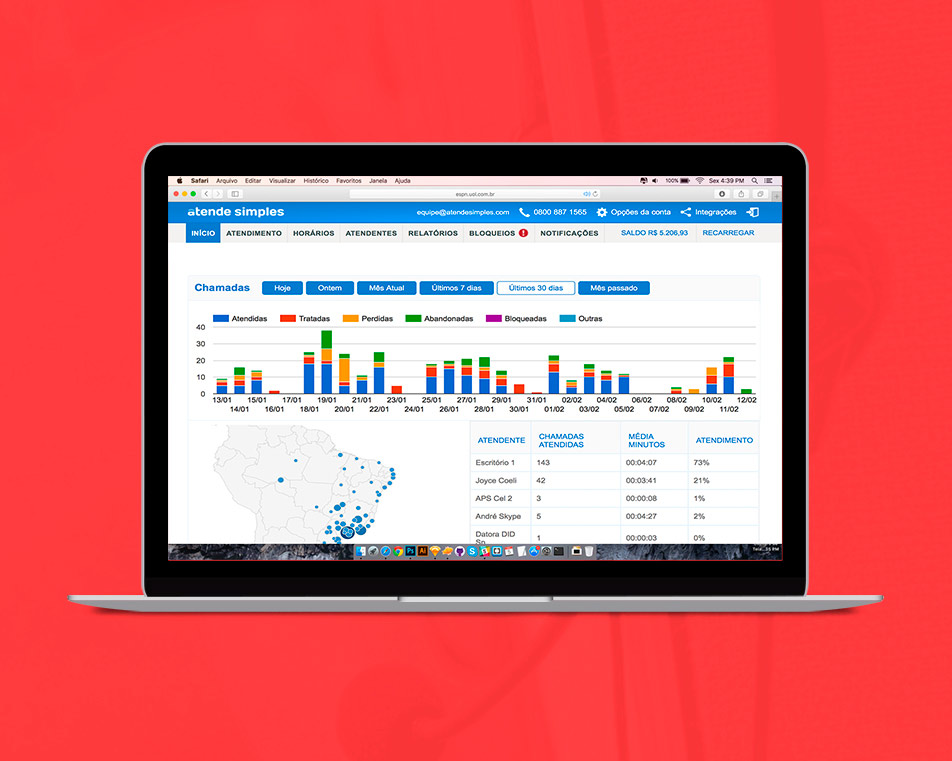
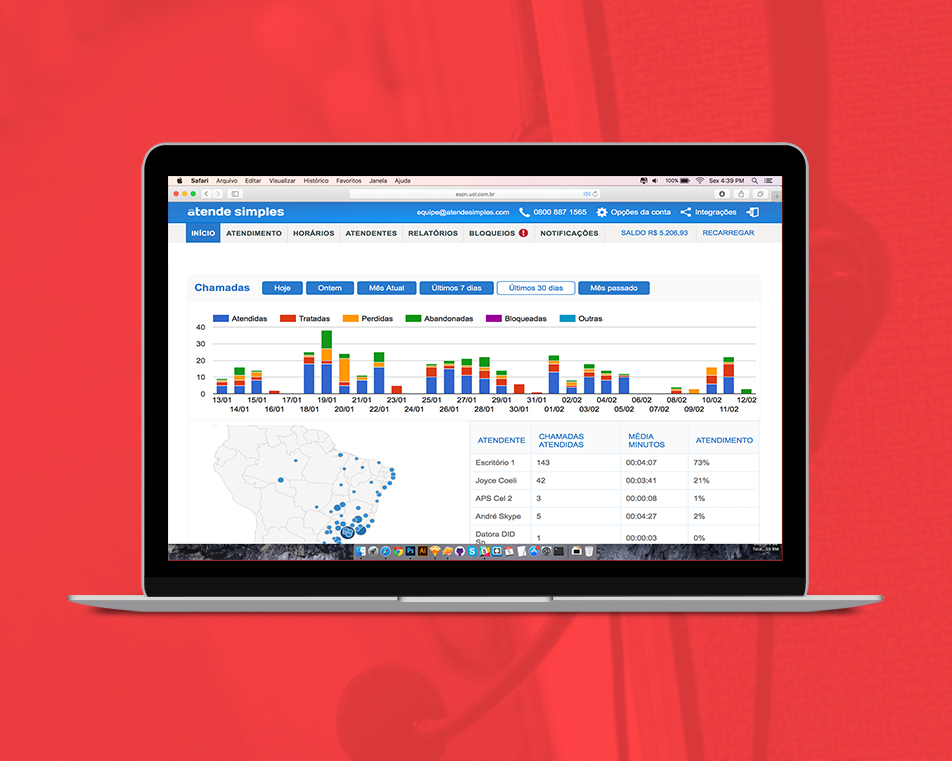
optimize images

diff --git a/Gruntfile.js b/Gruntfile.js
@@ -118,16 +118,16 @@ module.exports = function( grunt ) {
     imagemin: {
       dist: {
         options: {
-          optimizationLevel: 7,
+          optimizationLevel: 4,
           progressive: true
         },
         files: [{
           expand: true,
           filter: 'isFile',
-          cwd: 'images/src/',
-          src: '**/*.{png,jpg,svg}',
+          cwd: 'images/src/time',
+          src: '*.{png,jpg}',
           //src: '**/*.svg',
-          dest: 'images/'
+          dest: 'images/time'
         }]
       }
     }

diff --git a/_posts/team-members/en/2015-06-03-danilo-cestari.html b/_posts/team-members/en/2015-06-03-danilo-cestari.html
@@ -3,8 +3,8 @@ layout: team-en
 category: team
 permalink: "/en/our-team/danilo-cestari"
 pt: "/nosso-time/danilo-cestari"
-image: "http://gravatar.com/avatar/6934516ef8d25eeb81313904d57f27ea?s=160"
-image2x: "http://gravatar.com/avatar/6934516ef8d25eeb81313904d57f27ea?s=320"
+image: /images/time/time-danilo-cestari.jpg
+image2x: /images/time/time-danilo-cestari@2x.jpg
 full_name: Danilo Cestari
 slug: danilo.cestari
 location: -23.18725, -45.88622222222222

diff --git a/_posts/team-members/pt/2015-06-03-danilo-cestari.html b/_posts/team-members/pt/2015-06-03-danilo-cestari.html
@@ -3,8 +3,8 @@ layout: team
 category: time
 permalink: "/nosso-time/danilo-cestari"
 en: "/en/our-team/danilo-cestari"
-image: "http://gravatar.com/avatar/6934516ef8d25eeb81313904d57f27ea?s=160"
-image2x: "http://gravatar.com/avatar/6934516ef8d25eeb81313904d57f27ea?s=320"
+image: /images/time/time-danilo-cestari.jpg
+image2x: /images/time/time-danilo-cestari@2x.jpg
 full_name: Danilo Cestari
 slug: danilo.cestari
 location: -23.18725, -45.88622222222222
